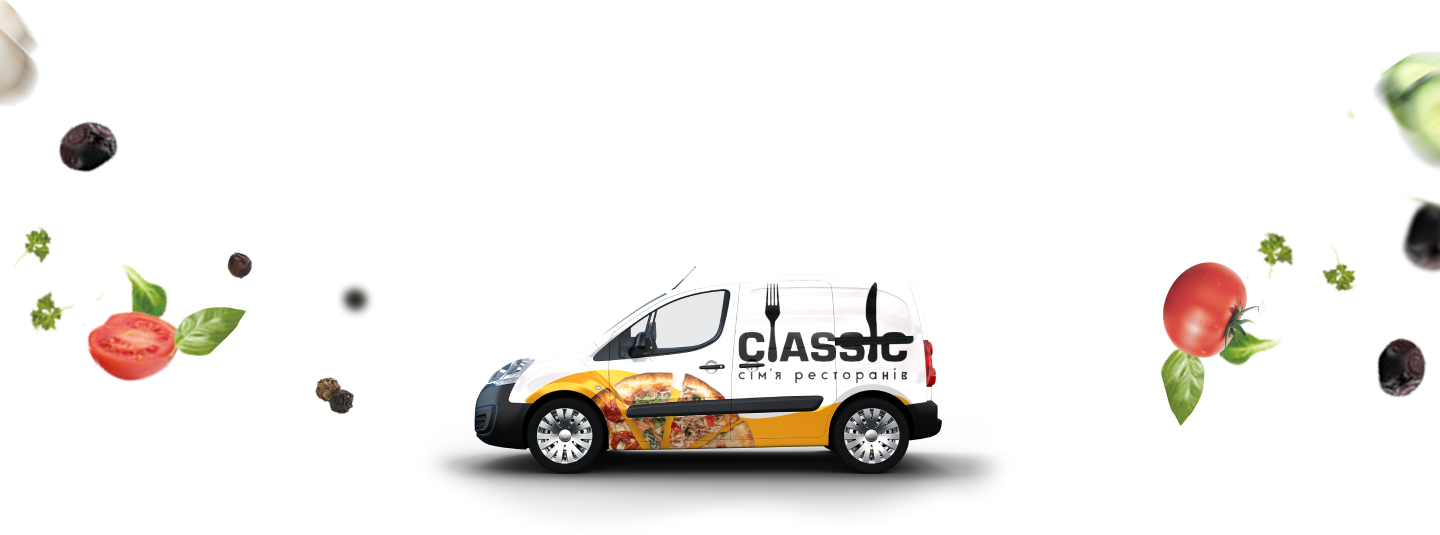
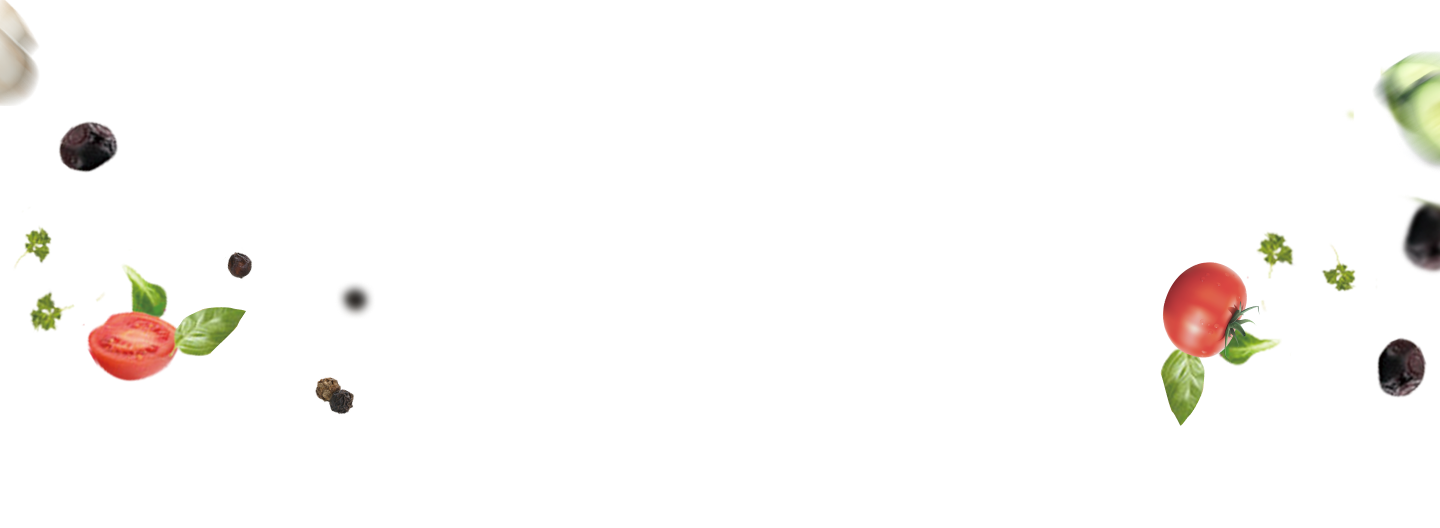
More marks

diff --git a/css/blocks/call.css b/css/blocks/call.css
@@ -1,15 +1,15 @@
 .call {
     padding-top: 82px;
-    padding-bottom: 450px;
+    padding-bottom: 300px;
     display: grid;
     grid-template-columns: 1fr;
     grid-template-rows: 2fr;
     justify-items: center;
     align-items: center;
     align-content: center;
-    background: url("../../img/call_bg.png") center bottom -20px, linear-gradient( 180deg, rgba(240, 245, 251, 1) 0%, rgba(240, 245, 251, 1) 87%, rgba(255, 255, 255, 1) 87%, rgba(255, 255, 255, 1) 100%);
-    background-size: cover;
-    background-repeat: no-repeat;
+    background: url("../../img/call_bg.png") center, url("../../img/car.png") center bottom, linear-gradient( 180deg, rgba(240, 245, 251, 1) 0%, rgba(240, 245, 251, 1) 87%, rgba(255, 255, 255, 1) 87%, rgba(255, 255, 255, 1) 100%);
+    background-size: 100%, auto;
+    background-repeat: no-repeat, no-repeat;
 }
 
 .call__form {

diff --git a/css/blocks/header.css b/css/blocks/header.css
@@ -1,6 +1,6 @@
 .header {
     background: url("../../img/header_bg.png") center no-repeat, linear-gradient(180deg, rgba(240, 245, 251, 1) 0%, rgba(240, 245, 251, 1) 90%, rgba(255, 255, 255, 1) 90%, rgba(255, 255, 255, 1) 100%);
-    background-size: contain;
+    /* background-size: contain; */
 }
 
 .header__container {

diff --git a/css/blocks/main.css b/css/blocks/main.css
@@ -1,6 +1,6 @@
 .main {
     background-image: url("../../img/menu_bg.png");
     background-position: center top;
-    background-size: contain;
+    /* background-size: contain; */
     background-repeat: no-repeat;
 }
